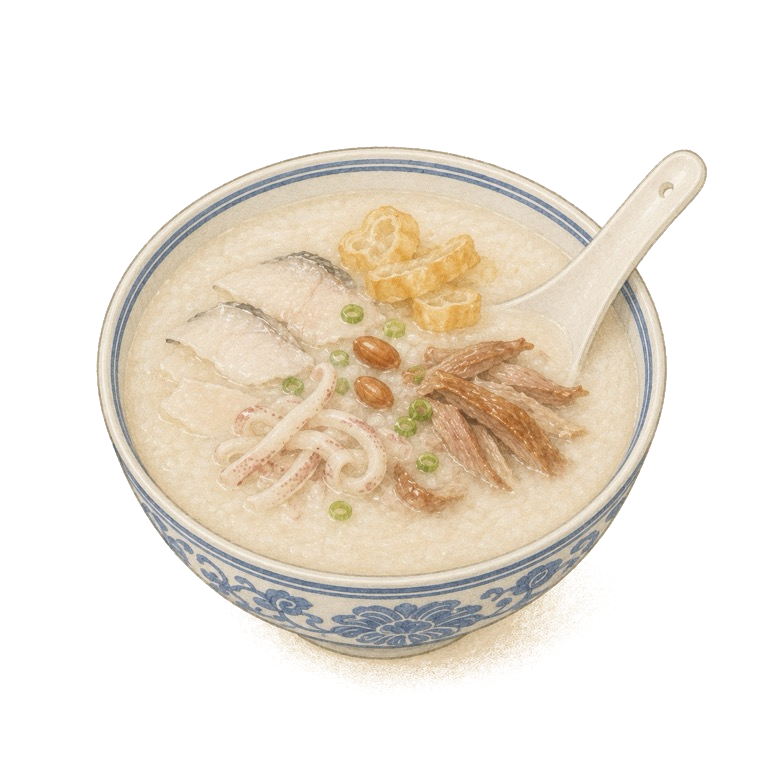
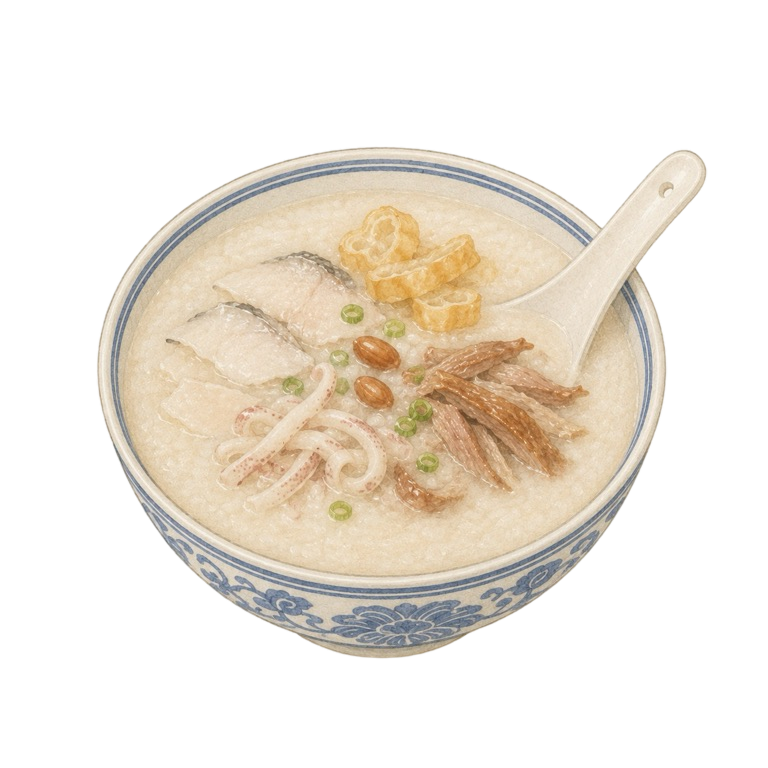
7份茶点

Changed region(s): [[0.3438, 0.75, 0.75, 0.9062]]

diff --git a/src/data/dishes.ts b/src/data/dishes.ts
@@ -97,7 +97,7 @@ export const DISHES: Dish[] = [
     name: '艇仔粥',
     fullName: '荔湾艇仔粥',
     category: '粥粉',
-    asset: '/tingzaizhou.png',
+    asset: '/tingzaizhou.png?v=2', // ?v=2 强制刷新缓存（艇仔粥图更新过一版）
     intro:
       '荔湾艇仔粥源自旧时荔枝湾的粥艇：疍家人摇橹卖粥，以河虾、鱼片等配料现煮滚制，热气腾腾、鲜甜可口，是广州粥品的代表。',
     notes: ['料足鲜甜', '绵滑粥底'],
@@ -107,31 +107,37 @@ export const DISHES: Dish[] = [
 ];
 
 /**
- * 桌面固定六席：坐标为百分比定位（相对桌面图容器），
- * 数值按参考设计图量取：后排高、前排低、左右收窄，zIndex 让前排压住后排。
+ * 桌面固定七席：7 个茶点沿椭圆圆周均分（每格约 51.4°），
+ * 坐标按几何计算量取，保证相邻茶点互不重叠。
+ * 顺序沿圆周顺时针：顶 → 右上 → 右中 → 右下 → 左下 → 左中 → 左上。
  */
 export const SEATS: Seat[] = [
-  { id: 'rear-c', x: '50%', y: '14%', zIndex: 1 }, // 后中（参考图：粥碗）
-  { id: 'rear-l', x: '19%', y: '31%', zIndex: 2 }, // 后左
-  { id: 'rear-r', x: '81%', y: '32%', zIndex: 2 }, // 后右
-  { id: 'front-l', x: '19%', y: '59%', zIndex: 3 }, // 前左
-  { id: 'front-r', x: '81%', y: '60%', zIndex: 3 }, // 前右
-  { id: 'front-c', x: '50%', y: '73%', zIndex: 4 }, // 前中（参考图：烧卖）
+  { id: 'top', x: '50%', y: '14%', zIndex: 1 }, // 顶部正中
+  { id: 'upper-r', x: '73%', y: '27%', zIndex: 2 }, // 右上
+  { id: 'mid-r', x: '79%', y: '53%', zIndex: 3 }, // 右中
+  { id: 'bottom-r', x: '63%', y: '74%', zIndex: 4 }, // 右下
+  { id: 'bottom-l', x: '37%', y: '74%', zIndex: 4 }, // 左下
+  { id: 'mid-l', x: '21%', y: '53%', zIndex: 3 }, // 左中
+  { id: 'upper-l', x: '27%', y: '27%', zIndex: 2 }, // 左上
 ];
 
 /**
- * 转桌轮换顺序：把六个席位按圆桌的环状排成一个圈，
+ * 转桌轮换顺序：把七个席位按圆桌的环状排成一个圈，
  * 转桌时每个茶点移动到圈里的相邻席位，实现"2D 转桌"。
- * 顺序：前中 → 前左 → 后左 → 后中 → 后右 → 前右 → 回到前中
+ * 顺序与 SEATS 的顺时针排列一致，首尾相连。
  */
 export const SEAT_RING: string[] = [
-  'front-c',
-  'front-l',
-  'rear-l',
-  'rear-c',
-  'rear-r',
-  'front-r',
+  'top',
+  'upper-r',
+  'mid-r',
+  'bottom-r',
+  'bottom-l',
+  'mid-l',
+  'upper-l',
 ];
+
+// 桌面最大席位数量（与 SEATS / SEAT_RING 保持一致）
+export const SEAT_COUNT = SEAT_RING.length;
 
 // 菜单顶部的分类筛选（甜点素材待补，先保留入口）
 export const FILTERS = ['全部', '蒸点', '粥粉', '甜点'] as const;

diff --git a/src/index.css b/src/index.css
@@ -74,7 +74,7 @@ img {
   align-items: center;
   justify-content: center;
   gap: 14px;
-  padding: 26px 0 6px;
+  padding: 22px 0 0; /* 压缩标题与桌子的间距，贴近参考图构图 */
 }
 
 .page-title h1 {
@@ -95,14 +95,18 @@ img {
 
 .table-scene {
   position: relative; /* 作为转桌提示的定位基准 */
-  padding: 0; /* 桌子全宽铺满，与参考图一致 */
+  padding: 10px 0 0; /* 顶部留 10px，桌子和提示整体下移 */
+  overflow: hidden; /* 桌子故意超宽出血，裁掉超出部分 */
   touch-action: pan-y; /* 只放行竖向滚动，横向拖动归转桌 */
 }
 
+/* 桌面容器：放大到超出屏幕左右边缘，还原参考图的"顶满出血"构图 */
 .table-surface {
   position: relative;
-  width: 100%;
-  aspect-ratio: 1 / 1;
+  width: 110%;
+  height: 419px; /* 固定桌面高度（覆盖 aspect-ratio 的计算值） */
+  padding-right: 0;
+  left: -5%;
 }
 
 /* 深木圆桌图（dimsums/圆桌.png）：桌沿和转桌轨道圈都已画在图里 */
@@ -116,10 +120,10 @@ img {
   user-select: none;
 }
 
-/* 桌上的茶点：按席位百分比定位，转桌时平滑吸附 */
+/* 桌上的茶点：按席位百分比定位，转桌时平滑吸附（七席方案，略缩防重叠） */
 .table-dish {
   position: absolute;
-  width: 29%;
+  width: 26%;
   transform: translate(-50%, -50%);
   transition: left 0.45s ease, top 0.45s ease;
 }
@@ -156,17 +160,18 @@ img {
   justify-content: center;
   gap: 10px;
   margin: 0;
-  font-size: 15px;
-  letter-spacing: 3px;
-  color: #c9a763;
-  text-shadow: 0 1px 3px rgba(30, 18, 8, 0.6);
+  font-size: 16px;
+  font-weight: 500;
+  letter-spacing: 4px;
+  color: #8a5a2e; /* 深棕色：提示落在米色背景上，棕色比亮金更清晰 */
+  text-shadow: none;
   pointer-events: none;
 }
 
 .drag-hint i {
   font-style: normal;
-  color: #e0b96a;
-  font-size: 17px;
+  color: #a5744a;
+  font-size: 19px;
 }
 
 /* ============ 早茶菜单面板 ============ */

diff --git a/src/hooks/useTableState.ts b/src/hooks/useTableState.ts
@@ -1,6 +1,6 @@
 import { useCallback, useState } from 'react';
 import type { PlacedDish } from '../types';
-import { SEAT_RING } from '../data/dishes';
+import { SEAT_RING, SEAT_COUNT } from '../data/dishes';
 
 /**
  * useTableState：管理「上桌 / 下桌 / 转桌」的全部状态。
@@ -8,14 +8,15 @@ import { SEAT_RING } from '../data/dishes';
  */
 export function useTableState() {
   // 当前已上桌的茶点列表（茶点 id + 所坐席位 id）
+  // 默认三款：粥坐顶部、虾饺坐左上、烧卖坐左下（与参考图气质一致）
   const [placed, setPlaced] = useState<PlacedDish[]>([
-    { dishId: 'tingzaizhou', seatId: 'rear-c' },
-    { dishId: 'xiajiao', seatId: 'rear-l' },
-    { dishId: 'shaomai', seatId: 'front-c' },
+    { dishId: 'tingzaizhou', seatId: 'top' },
+    { dishId: 'xiajiao', seatId: 'upper-l' },
+    { dishId: 'shaomai', seatId: 'bottom-l' },
   ]);
 
-  // 桌上是否坐满（固定六席）
-  const isFull = placed.length >= 6;
+  // 桌上是否坐满（固定七席，席位数量以 SEAT_COUNT 为准）
+  const isFull = placed.length >= SEAT_COUNT;
 
   // 查询某个茶点是否已上桌
   const isPlaced = useCallback(
@@ -29,7 +30,7 @@ export function useTableState() {
    */
   const placeDish = useCallback((dishId: string) => {
     setPlaced((prev) => {
-      if (prev.length >= 6 || prev.some((p) => p.dishId === dishId)) {
+      if (prev.length >= SEAT_COUNT || prev.some((p) => p.dishId === dishId)) {
         return prev; // 已满或已上桌：不做任何改动
       }
       const usedSeats = new Set(prev.map((p) => p.seatId));

diff --git a/src/App.tsx b/src/App.tsx
@@ -1,6 +1,6 @@
 import { useRef, useState } from 'react';
 import type { Dish } from './types';
-import { DISHES } from './data/dishes';
+import { DISHES, SEAT_COUNT } from './data/dishes';
 import { useTableState } from './hooks/useTableState';
 import { TableScene } from './components/TableScene';
 import { MenuGrid } from './components/MenuGrid';
@@ -27,7 +27,7 @@ export default function App() {
   // 上桌：点击当下就用最新状态判断是否坐满，坐满才提示
   const handlePlace = (dish: Dish) => {
     if (table.isFull || table.isPlaced(dish.id)) {
-      showToast('桌上已坐满 6 款茶点，先下桌一道吧');
+      showToast(`桌上已坐满 ${SEAT_COUNT} 款茶点，先下桌一道吧`);
       return;
     }
     table.placeDish(dish.id);
@@ -42,7 +42,7 @@ export default function App() {
         <i className="diamond" aria-hidden="true">◆</i>
       </header>
 
-      {/* 深木圆桌 + 六席茶点（含转桌提示） */}
+      {/* 深木圆桌 + 七席茶点（含转桌提示） */}
       <TableScene dishes={DISHES} placed={table.placed} onRotate={table.rotate} onOpenDish={setActiveDish} />
 
       {/* 早茶菜单面板 */}

diff --git a/src/components/MenuGrid.tsx b/src/components/MenuGrid.tsx
@@ -13,8 +13,8 @@ type Props = {
 /**
  * MenuGrid：底部「早茶菜单」面板。
  * - 顶部四个筛选 chips：全部 / 蒸点 / 粥粉 / 甜点；
- * - 两列茶点卡片：已上桌显示"下桌"，未上桌显示"上桌"；
- * - 桌满后"上桌"按钮变灰（仍可点击，用于弹出提示）。
+ * - 两列茶点卡片：已上桌显示"执碟"，未上桌显示"上菜"；
+ * - 桌满后"上菜"按钮变灰（仍可点击，用于弹出提示）。
  */
 export function MenuGrid({ dishes, isPlaced, isFull, onPlace, onRemove }: Props) {
   // 当前选中的筛选分类，'全部' 时显示所有茶点
@@ -63,7 +63,7 @@ export function MenuGrid({ dishes, isPlaced, isFull, onPlace, onRemove }: Props)
                     aria-disabled={!onTable && isFull}
                     onClick={() => (onTable ? onRemove(dish.id) : onPlace(dish))}
                   >
-                    {onTable ? '下桌' : '上桌'}
+                    {onTable ? '执碟' : '上菜'}
                   </button>
                 </div>
               </div>
